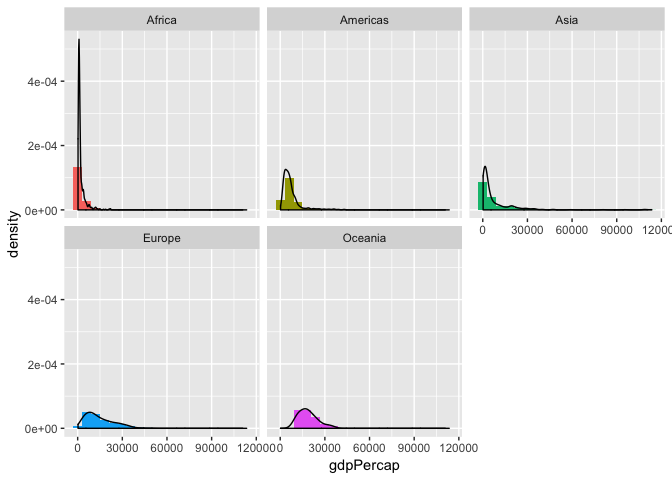
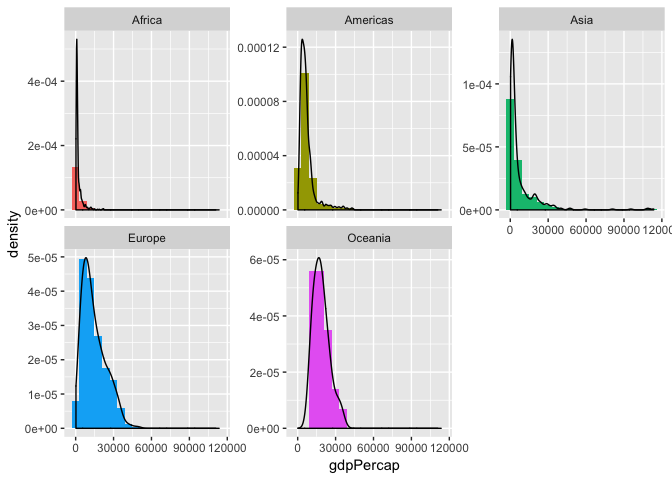
edit wording

diff --git a/hw03_use_dplyr_ggplot2_to_manipulate_and_explore_data.md b/hw03_use_dplyr_ggplot2_to_manipulate_and_explore_data.md
@@ -43,8 +43,8 @@ gapminder %>%
 
 ## Task2: Look at the spread of GDP per capita within the continents.
 
-Let’s look at the standard deviation of gdp on different continents
-through `sd()` function
+Let’s look at the spread of gdp on different continents through
+`summarise()` function
 
 ``` r
 stats=gapminder %>% 
@@ -75,7 +75,7 @@ gapminder %>%
   ggplot(aes(gdpPercap))+
   geom_histogram(aes(y=..density.., fill=continent), bins=20)+
   geom_density()+
-  facet_wrap(~continent)+
+  facet_wrap(.~continent, scale="free_y") +
   guides(fill=FALSE)
 ```
 
@@ -131,6 +131,10 @@ gapminder %>%
 ```
 
 ![](hw03_use_dplyr_ggplot2_to_manipulate_and_explore_data_files/figure-gfm/weighted%20mean%20lifeExp%20over%20time-1.png)<!-- -->
+
+From this figure we can see that worldwide life expectancy is increasing
+over
+time.
 
 ## Task4: How is life expectancy changing over time on different continents?
 
@@ -259,3 +263,6 @@ gapminder %>%
     ## `geom_smooth()` using method = 'loess' and formula 'y ~ x'
 
 ![](hw03_use_dplyr_ggplot2_to_manipulate_and_explore_data_files/figure-gfm/lifeExp%20greater%20than%2059.5-1.png)<!-- -->
+
+From this figure we can see that Africa has the largest amount of
+population with low life expectancy by looking at the fitted line.
